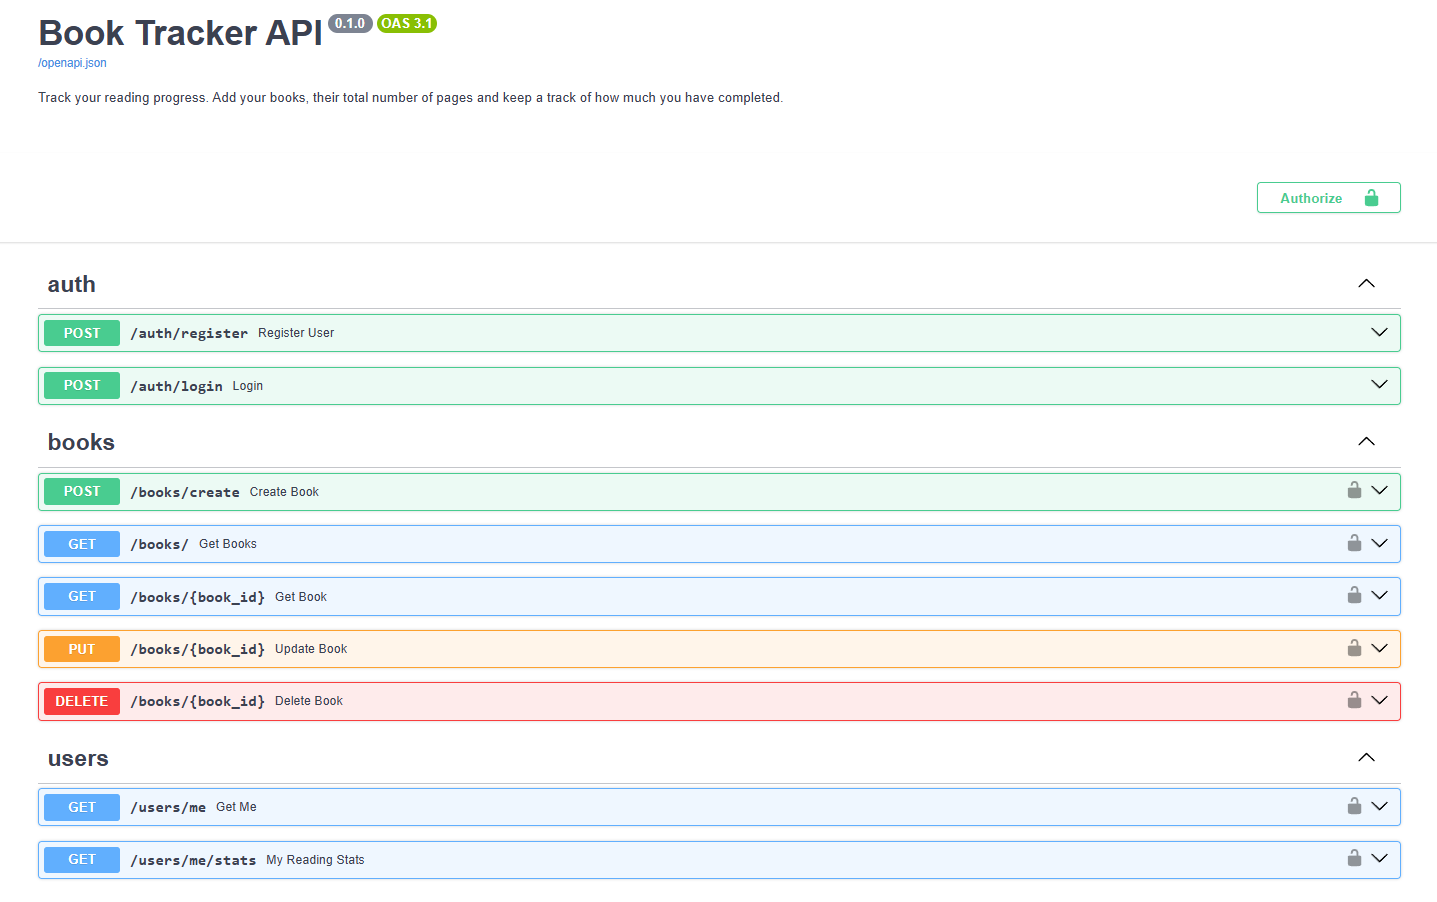
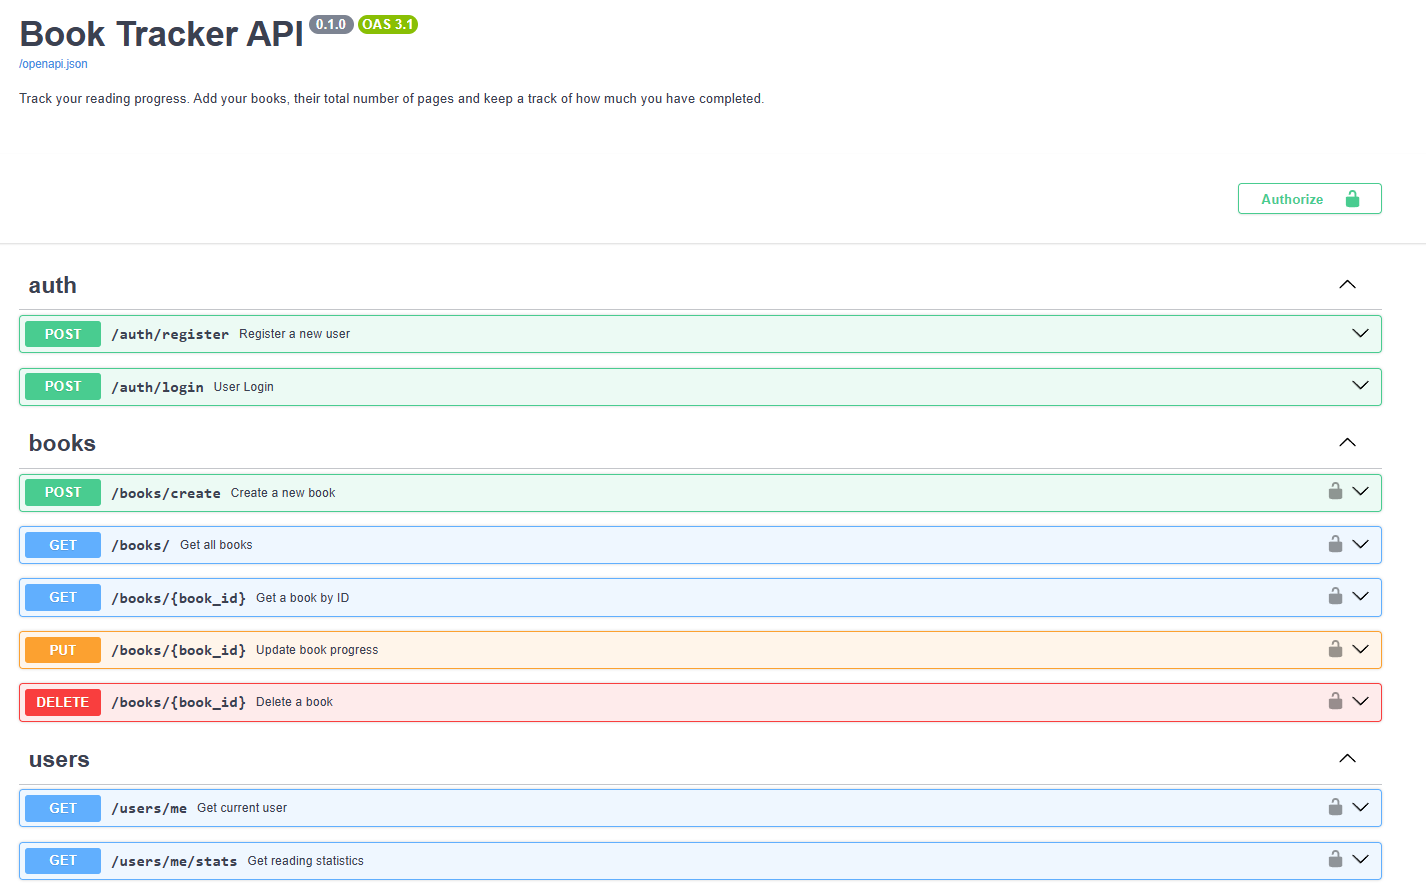
Improved documentation

diff --git a/app/schemas.py b/app/schemas.py
@@ -1,20 +1,20 @@
-from pydantic import BaseModel
+from pydantic import BaseModel,Field
 
 class UserCreate(BaseModel):
-    username: str
-    password: str
+    username: str = Field(..., example="username")
+    password: str = Field(..., example="password")
 
 class UserOut(BaseModel):
     id: int
-    username: str
+    username: str = Field(..., example="username")
     class Config:
         orm_mode = True
 
 class BookBase(BaseModel):
-    title: str
-    author: str
-    total_pages: int
-    pages_read: int = 0
+    title: str = Field(..., example="Book title")
+    author: str = Field(..., example="Book author")
+    total_pages: int = Field(..., example=0)
+    pages_read: int = Field(..., example=0)
 
 class BookCreate(BookBase):
     pass
@@ -25,9 +25,18 @@ class BookUpdate(BaseModel):
 class BookOut(BookBase):
     id: int
     owner_id: int
+    status: str = Field(..., example="Not Started/In Progress/Completed")
     class Config:
         orm_mode = True
 
-class PasswordUpdate(BaseModel):
-    old_password:str
-    new_password:str
+class ReadingStatsResponse(BaseModel):
+    total_books: int = Field(..., example=10)
+    completed: int = Field(..., example=5)
+    in_progress: int = Field(..., example=3)
+    not_started: int = Field(..., example=2)
+    total_pages: int = Field(..., example=300)
+    pages_read: int = Field(..., example=150)
+    completion_rate: float = Field(..., example=50.0)
+
+class BookStatus(BookBase):
+    status: str = Field(..., example="Not Started/In Progress/Completed")

diff --git a/app/routes/books.py b/app/routes/books.py
@@ -31,7 +31,7 @@ def get_book(book_id: int, db: Session = Depends(get_db), user: models.User = De
         raise HTTPException(status_code=404, detail="Book not found")
     return book
 
-@router.put("/{book_id}", response_model=schemas.BookOut,summary="Update book progress",description="Update the number of pages read for a specific book. The status will be updated automatically based on the total pages and pages read.")
+@router.put("/{book_id}", response_model=schemas.BookStatus,summary="Update book progress",description="Update the number of pages read for a specific book. The status will be updated automatically based on the total pages and pages read.")
 def update_book(book_id: int, update: schemas.BookUpdate, db: Session = Depends(get_db), user: models.User = Depends(auth.get_current_user)):
     book = db.query(models.Book).filter(models.Book.id == book_id, models.Book.owner_id == user.id).first()
     if not book:

diff --git a/app/routes/users.py b/app/routes/users.py
@@ -16,7 +16,7 @@ def get_db():
 def get_me(current_user: models.User = Depends(auth.get_current_user)):
     return current_user
 
-@router.get("/me/stats",summary="Get reading statistics",description="Retrieve statistics about the user's reading progress.")
+@router.get("/me/stats", response_model=schemas.ReadingStatsResponse,summary="Get reading statistics",description="Retrieve statistics about the user's reading progress.")
 def my_reading_stats(db: Session = Depends(get_db),current_user: models.User = Depends(auth.get_current_user)):
     base_query = db.query(models.Book).filter(models.Book.owner_id == current_user.id)
     total_books = base_query.count()
